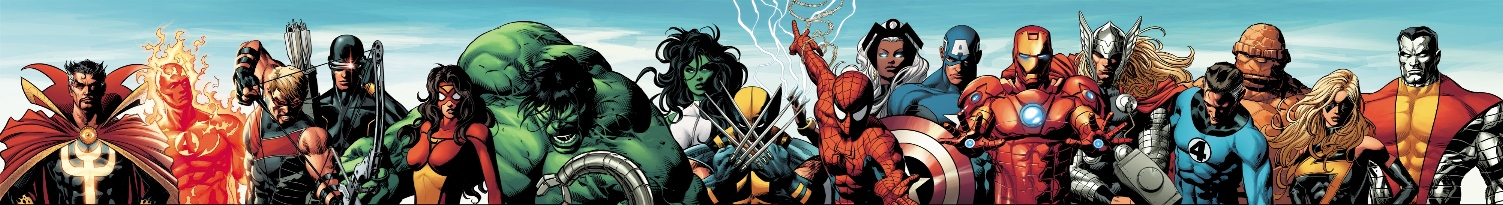
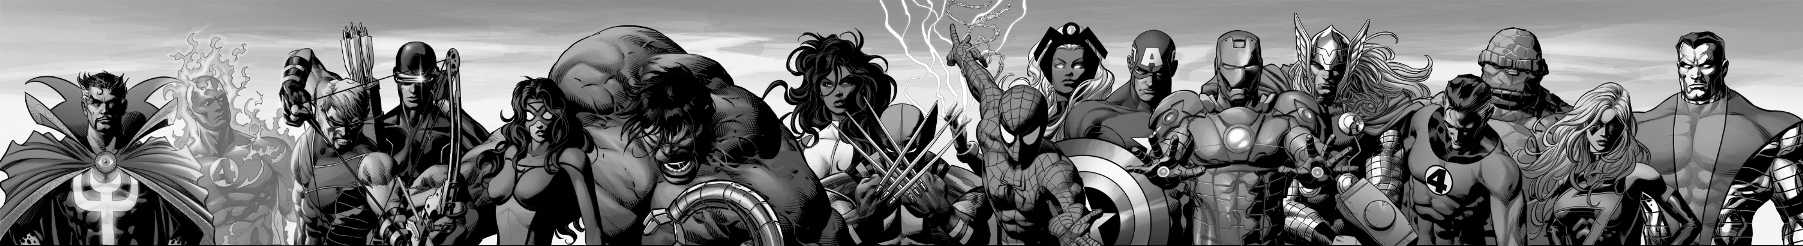
Marcelo branches

diff --git a/code.js b/code.js
@@ -21,7 +21,7 @@ window.onload = function() {
 			event.preventDefault();
 
 			searchMovieInput = $("#movieNameId").val().trim();
-			console.log(searchMovieInput);
+			//console.log(searchMovieInput);
 
 			firebase.database().ref().on("child_added",function(snapshot){
 
@@ -29,6 +29,10 @@ window.onload = function() {
 
 						//var nextTime = moment(firstTimeMoment.add(lapse)).format();
 						$("#movieSelected").append("<div>" + snapshot.val().searchMovieInput + "</div>");
+
+
+
+
 
 			})
 
@@ -46,17 +50,33 @@ window.onload = function() {
 
 
 
-
-		var top3Movies = [];
+		var top3Movies;
+		top3Movies= [{term:"PZ", counter: "0"}];
 
 
 		firebase.database().ref().on("child_added",function(snapshot){
 
-			top3Movies.push(snapshot.val().searchMovieInput);
+			//top3Movies.push(snapshot.val().searchMovieInput);
 
 			console.log(snapshot.val().searchMovieInput);
 
 			//console.log(top3Movies);
+
+			var trendMovie= snapshot.val().searchMovieInput;
+
+
+			var lengthArray = top3Movies.length
+			for (var i =0;  i < lengthArray; i++) {
+				if(trendMovie == top3Movies[i].term){
+					top3Movies[i].counter++
+				}
+				
+				if(trendMovie != top3Movies[i].term){
+					top3Movies.push({term: trendMovie, counter:1});
+				}
+
+			}
+				
 
 
 
@@ -67,10 +87,9 @@ window.onload = function() {
 		})
 
 
-		for (var i = 0; i < 2; i++) {
-			var aux = top3Movies [i];
-			console.log(aux);
-		}
+		//for (var i = 0; i < top3Movies.length; i++) {
+		//	console.log(top3Movies.term[i]);
+		//}
 
 
 

diff --git a/index.html b/index.html
@@ -41,9 +41,9 @@
 
 <!--div id=maiximum class=container-->
 <!-- Jumbotron for Title -->
-  <div id="jumbos" class="jumbotron" style="background-color: white ; color: yellow;">
+  <div id="jumbos" class="jumbotron" style="background-color: blue ; color: yellow;">
         <h1 class="text-center"><strong><i class="fa fa-newspaper-o"></i><span class="glyphicon glyphicon-search" aria-hidden="true"></span><a> MARVE</a> Link</strong></h1>
-        <img src
+        
   </div>
 
   <div id="mainContainer" class="row">
@@ -151,6 +151,7 @@
 
 
   </div>
+
 <!--/div-->
 
 

diff --git a/style.css b/style.css
@@ -29,6 +29,7 @@ tr:nth-child(even) {
 }
 
 body{
+	background: url("images/marvel_superheroes.JPG");
 	background-color: orange;
 	width: auto;
 }
@@ -42,8 +43,7 @@ body{
 #jumbos{
 	padding-right:  0px;
 	padding-left: 0px;
-	background: url("../images/MARVEL_ENCYCLOPEDIA_400-reaced_header2.JPG");
-
+	
 }
 
 
